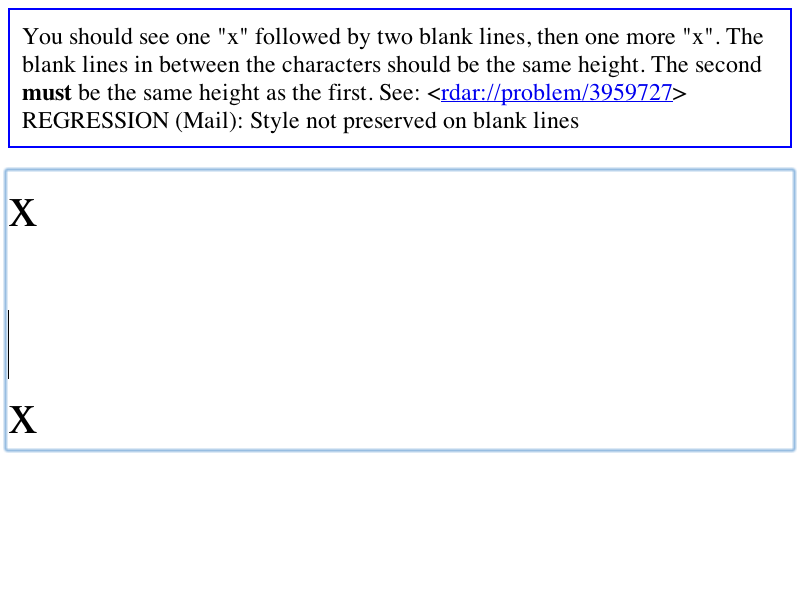
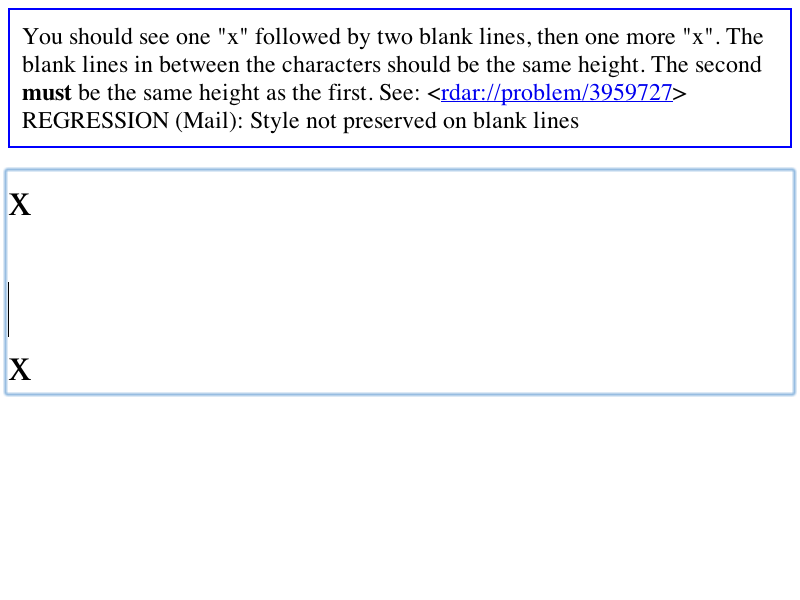
LayoutTests:
Reviewed by hyatt

        <rdar://problem/4875425>
        EBay, GMail, and GoogleDocs RTEs font size popups don't work

        Added to test changes:
        * editing/style/fontsize-1-expected.checksum: Added.
        * editing/style/fontsize-1-expected.png: Added.
        * editing/style/fontsize-1-expected.txt: Added.
        * editing/style/fontsize-1.html: Added.

        Removed use of "px" and "pt" values passed to
        execCommand("FontSize", ...) (other browsers don't
        support them): 
        * editing/input/attributed-substring-from-range-lines.html-disabled:
        * editing/style/block-style-004-expected.checksum:
        * editing/style/block-style-004-expected.png:
        * editing/style/block-style-004-expected.txt:
        * editing/style/block-style-004.html:
        * editing/style/block-style-005-expected.checksum:
        * editing/style/block-style-005-expected.png:
        * editing/style/block-style-005-expected.txt:
        * editing/style/block-style-005.html:
        * editing/style/block-style-006-expected.checksum:
        * editing/style/block-style-006-expected.png:
        * editing/style/block-style-006-expected.txt:
        * editing/style/block-style-006.html:

WebCore:

        Reviewed by hyatt
        
        <rdar://problem/4875425>
        EBay, GMail, and GoogleDocs RTEs font size popups don't work

        Changed execCommand("FontSize", ...) to match the spec
[…]

Changed region(s): [[0.0, 0.57, 1.0, 0.78], [0.0, 0.3, 0.0625, 0.39]]

diff --git a/editing/style/fontsize-1.html b/editing/style/fontsize-1.html
@@ -1,0 +1,35 @@
+<p>This test execCommand("FontSize", ...).  You should see 'small' 'medium' and 'large' below in every increasing font sizes.</p>
+<div id="div" contenteditable="true"></div>
+<ul id="console"></ul>
+
+<script>
+function log(str) {
+    var li = document.createElement("li");
+    li.appendChild(document.createTextNode(str));
+    var console = document.getElementById("console");
+    console.appendChild(li);
+}
+
+var div = document.getElementById("div");
+var sel = window.getSelection();
+
+sel.setPosition(div, 0);
+
+if (document.execCommand("FontSize", false, "pasd"))
+    log("Failure: execCommand('FontSize', [Illegal value]) should fail.");
+
+if (!document.execCommand("FontSize", false, "2"))
+    log("Failure: execCommand('FontSize', [Legal value]) failed.");
+
+document.execCommand("InsertText", false, "small");    
+
+if (!document.execCommand("FontSize", false, "4"))
+    log("Failure: execCommand('FontSize', [Legal value]) failed.");
+
+document.execCommand("InsertText", false, "medium");
+
+if (!document.execCommand("FontSize", false, "6"))
+    log("Failure: execCommand('FontSize', [Legal value]) failed.");
+
+document.execCommand("InsertText", false, "large");
+</script>

diff --git a/editing/style/block-style-006.html b/editing/style/block-style-006.html
@@ -23,7 +23,7 @@ function editingTest() {
     typeCharacterCommand();
     for (i = 0; i < 3; i++)
         extendSelectionBackwardByLineCommand();
-    fontSizeCommand("60px");
+    fontSizeCommand("7");
     for (i = 0; i < 3; i++)
         moveSelectionForwardByLineCommand();
     moveSelectionBackwardByCharacterCommand();

diff --git a/editing/style/block-style-004.html b/editing/style/block-style-004.html
@@ -23,7 +23,7 @@ function editingTest() {
     typeCharacterCommand();
     for (i = 0; i < 3; i++)
         extendSelectionBackwardByLineCommand();
-    fontSizeCommand("60px");
+    fontSizeCommand("7");
     moveSelectionBackwardByCharacterCommand();
     moveSelectionForwardByLineCommand();
     insertParagraphCommand();

diff --git a/editing/style/block-style-005.html b/editing/style/block-style-005.html
@@ -23,7 +23,7 @@ function editingTest() {
     typeCharacterCommand();
     for (i = 0; i < 3; i++)
         extendSelectionBackwardByLineCommand();
-    fontSizeCommand("60px");
+    fontSizeCommand("7");
     for (i = 0; i < 3; i++)
         moveSelectionForwardByLineCommand();
     deleteCommand();
